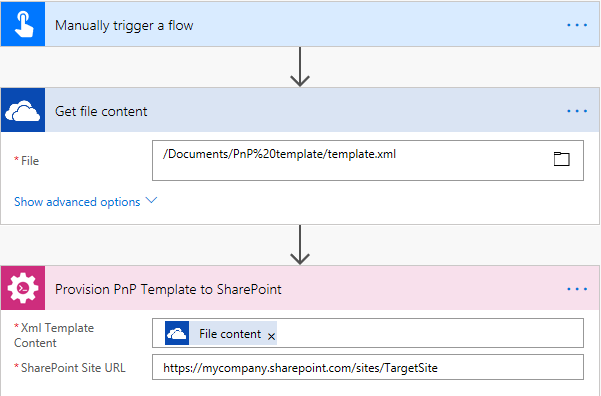
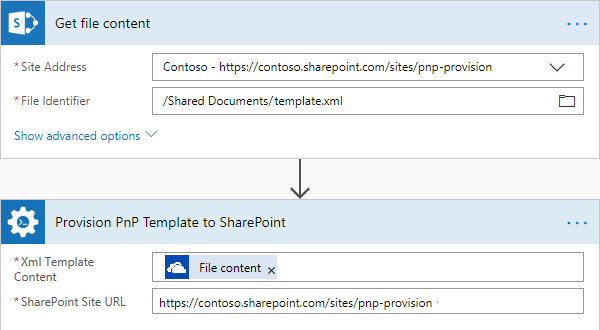
Final version of create list or library from PnP template article.

diff --git a/source/flow/how-tos/sharepoint/create-list-library-pnp.rst b/source/flow/how-tos/sharepoint/create-list-library-pnp.rst
@@ -1,11 +1,11 @@
 How to create SharePoint list or library using PnP provisioning template in Microsoft Flow, Azure Logic Apps or PowerApps
 =========================================================================================================================
 
-This article will show how to create a custom SharePoint list or library using PnP provisoning template. You can use this approach to create sites or lists of any complexity in SharePoint. For example, you may want to create an employees list with a set of predefined columns for your team. We will do it below. The same approach works for provision of SharePoint document library as well.
+This article will show how to create a custom SharePoint list or library using PnP provisioning template. You can use this approach to create lists or libraries of any complexity in SharePoint. For example, you may want to create an employees list with a set of predefined columns for your team. We will do it below.
 
-PnP template is an XML file that contains a description of SharePoint entities (lists, libraries, pages, etc.) that you want to create. You can create own XML template for your Modern SharePoint list or library. Then use the `Provision PnP template to SharePoint <../../actions/sharepoint-processing.html#provision-pnp-template-to-sharepoint>`_ action from `Plumsail Actions <https://plumsail.com/actions>`_ to apply PnP templates to your SharePoint sites using Microsoft Flow or Azure Logic Apps.
+`PnP template <https://docs.microsoft.com/en-us/sharepoint/dev/solution-guidance/pnp-provisioning-schema>`_ is an XML file that contains a description of SharePoint entities (lists, libraries, pages, etc.) that you want to create. You can create own XML template for your Modern SharePoint list or library. Then use the `Provision PnP template to SharePoint <../../actions/sharepoint-processing.html#provision-pnp-template-to-sharepoint>`_ action from `Plumsail Actions <https://plumsail.com/actions>`_ to apply PnP templates to your SharePoint sites using Microsoft Flow or Azure Logic Apps.
 
-If you are new to Plumsail Actions, follow `this getting started instruction <../../getting-started/sign-up>`_.
+If you are new to Plumsail Actions, follow `this getting started instruction <../../../getting-started/sign-up.html>`_.
 
 First of all, we need to create a PnP provisioning template for our list. Let us say we have the employees list:
 
@@ -17,6 +17,8 @@ There are two ways to create a PnP template:
 1. :ref:`write-template-manually` - It is useful for simple lists without custom views or content types.
 2. :ref:`create-template-from-existing-list` - It is useful for complex lists with content types, views, site columns.
 
+You will find the description of both approaches below. Pick the one that you like more.
+
 .. _write-template-manually:
 
 Write a PnP template manually and provision a simple list
@@ -24,7 +26,7 @@ Write a PnP template manually and provision a simple list
 
 This approach is useful for creation of simple lists or document libraries without custom content types, site columns, etc. Below you can see example of a template for simple employees list:
 
-.. code:: 
+.. code-block:: XML
 
   <?xml version="1.0"?>
   <pnp:Provisioning xmlns:pnp="http://schemas.dev.office.com/PnP/2018/07/ProvisioningSchema">
@@ -79,14 +81,14 @@ Let us review what you can change in the template.
 
 :code:`<pnp:ListInstance>` tag represents a list. You can change list title (:code:`Title`) and list URL (:code:`Url`). Also, if you want to create a document library, you need to change :code:`TemplateType` to :code:`101` instead of :code:`100`. 
 
-You can find all awailable template types in `the official Microsoft documentation <https://docs.microsoft.com/en-us/previous-versions/office/sharepoint-server/ms413878(v%3Doffice.15)>`_.
+You can find all the available template types in `the official Microsoft documentation <https://docs.microsoft.com/en-us/previous-versions/office/sharepoint-server/ms413878(v%3Doffice.15)>`_.
 
 <Field> tag
 ~~~~~~~~~~~~~~~
 
 :code:`<pnp:Field>` tag represents a column in your list. You can add new fields by adding new tags like this:
 
-.. code:: 
+.. code-block:: XML
 
   <pnp:Fields>
     <Field ID="{4512a091-1007-4cd9-900b-411f01f2b119}" DisplayName="Manager" Name="Manager" Type="Text"/>
@@ -95,15 +97,15 @@ You can find all awailable template types in `the official Microsoft documentati
 
 - :code:`DisplayName` is a display name of the field.
 - :code:`Name` is an internal name of the field.
-- :code:`Type` represents a type of the field. You can find all awailable types in `this article <https://docs.microsoft.com/en-us/previous-versions/office/sharepoint-server/ms428806(v%3Doffice.15)>`_.
-- :code:`ID` is unique ID of the field. You can put here unique GUID or fill it dynamcially in your Microsoft Flow. See the example below.
+- :code:`Type` represents a type of the field. You can find all the available types in `this article <https://docs.microsoft.com/en-us/previous-versions/office/sharepoint-server/ms428806(v%3Doffice.15)>`_.
+- :code:`ID` is a unique ID of the field. You can put here unique GUID or fill it dynamically in your Microsoft Flow. See the example below.
 
 <FieldRef> tag under <ViewFields>
 ~~~~~~~~~~~~~~~~~~~~~~~~~~~~~~~~~~~~~
 
 :code:`<FieldRef>` tag under :code:`<ViewFields>` represents a field in a list view. If you want to add your new field in the list view, create the :code:`<FieldRef>` tag for it:
 
-.. code:: 
+.. code-block:: XML
 
   <ViewFields>
     <FieldRef Name="Manager" />
@@ -118,34 +120,36 @@ Example of Microsoft Flow
 Copy and paste your template into `Provision PnP template to SharePoint <../../actions/sharepoint-processing.html#provision-pnp-template-to-sharepoint>`_ action in your Flow:
 
 .. image:: ../../../_static/img/flow/how-tos/create-simple-list-pnp-flow-example.png
-  :alt: Create simple list from PnP template Flow
+  :alt: Create a simple list from PnP template Flow
 
 You need to replace all values for Field IDs using Microsoft Flow expressions like on the screenshot above. It will ensure that your fields will always have unique IDs.
 
-This approach is useful, when you want to create simple SharePoint lists or document libraries. If you have a comples list with many views you may consider another option with creating your template from an existing list using PowerShell. For more information read below.
+This approach is useful when you want to create simple SharePoint lists or document libraries. If you have a complex list with many views you may consider another option with creating your template from an existing list using PowerShell. For more information read below.
 
 .. _create-template-from-existing-list:
 
 Get a PnP template from an existing list and provision a complex list
 ---------------------------------------------------------------------
 
-PnP PowerShell allows you to execute various command for manipulating SharePoint, including grabbing of a template from a SharePoint site.
+PnP PowerShell allows you to execute various commands for manipulating SharePoint, including grabbing of a template from a SharePoint site.
 
 First of all, you need to install PnP PowerShell. Follow `the installation instruction <https://docs.microsoft.com/en-us/powershell/sharepoint/sharepoint-pnp/sharepoint-pnp-cmdlets?view=sharepoint-ps#installation>`_. Then connect to your SharePoint site. Execute the command below and specify your own URL for the site where your Modern page is stored:
 
-.. code::
+.. code-block:: powershell
 
-  Connect-PnPOnline -Url https://mycompany.sharepoint.com/sites/mysite
+  Connect-PnPOnline -Url "https://contoso.sharepoint.com/sites/mysite"
 
-Unfortunately, there are no PnP PowerShell commands for getting a template from a signle list. You could execute this command:
+Unfortunately, there are no PnP PowerShell commands for getting a template from a single list. You could execute this command:
 
-.. code::
+.. code-block:: powershell
 
-  Get-PnPProvisioningTemplate -Out template.xml -Handlers Lists
+  Get-PnPProvisioningTemplate -Out "template.xml" -Handlers Lists
 
-But the command below creates a template for all lists and libraries on your site. If it is your case, you can use the code above. Otherwise, you need a workaround:
+But this command creates a template for all lists and libraries on your site. If it is your case, you can use the code above. Otherwise, you need a workaround.
 
-..code::
+The script below is the workaround. It will help you to get a template from a single list:
+
+.. code-block:: powershell
 
   $listName = "Employees";
   $outputTemplateFileName = "template.xml";
@@ -157,45 +161,20 @@ But the command below creates a template for all lists and libraries on your sit
 
 This scripts gets a template for a single list. Let's take a closer look:
 
-- In the first line we specify title of the list. You need to replace "Employees" by the name of your script.
-- In the second line we specify location of the output template. You can change "template.xml" to other path.
-- The rest of the code takes a template for all list of the sites. Then it removes all the lists except the one we need.
+- In the first line we specify title of the list. You need to replace "Employees" by the name of your list.
+- In the second line, we specify the location of the output template file. You can change "template.xml" to another path.
+- The rest of the code takes a template for all lists of the site. Then it removes all the lists except the one we need.
 
 Once you executed the script, you will have the template for your specific list or document library.
 
 .. note:: This script gets a template of a list without external references like content types, site columns, etc. If you need to include them into the template, you need to modify the PowerShell script or do it manually in the XML.
 
-However, in a real situation we need to save not all existing lists but a specific one. 
-Standard PnP commandlets do not allow you to grab a template for a single list. That is why you need a workaround. 
-Let's say you have a pnp template and deploy the template once new employee is hired. However, the source site gets a new list and you need to provide the list to all employees.
-Instead of taking a template from the whole site you can take a template, including only specific list.
+That is all. Now you can save the template file somewhere in your SharePoint and use this file as a template in the `Provision PnP template to SharePoint <../../actions/sharepoint-processing.html#provision-pnp-template-to-sharepoint>`_ actions:
 
-|listimg|
+.. image:: ../../../_static/img/flow/how-tos/provision-pnp-template-to-sp.png
+   :alt: Apply list PnP template
 
-The next PowerShell script helps us to reach the goal:
-
-
-
-
-
-If you open the resulting xml template you'll see that there is a description of only one list.Then you may apply the resulting xml using the Microsoft Flow action  `Provision PnP template to SharePoint`_ .
-
-|flow|
-
-Conclusion
-----------
-
-I've shown how to create a PnP provisioning template with a specific list or library and how to use this resulting template with Plumsail Actions.
-If you haven’t used it yet, `registering an account`_ would be the first step. It is quite easy to get started.
+If you haven’t used Plumsail Actions yet, `registering an account <../../../getting-started/sign-up.html>`_ would be the first step. It is quite easy to get started.
 
 .. hint::
-  You may also be interested in `this article <https://plumsail.com/docs/actions/v1.x/flow/how-tos/sharepoint/get-template-using-power-shell.html>`_ explaining how to get a PnP provisioning template using PowerShell and then apply it in Microsoft Flow.
-
-
-.. _Plumsail SharePoint connector: https://plumsail.com/docs/actions/v1.x/flow/actions/sharepoint-processing.html
-.. _article: ../../how-tos/sharepoint/get-template-using-power-shell.html
-.. _options: https://docs.microsoft.com/en-us/powershell/module/sharepoint-pnp/get-pnpprovisioningtemplate?view=sharepoint-ps
-.. _registering an account: ../../../getting-started/sign-up.html
-
-.. |flow| image:: ../../../_static/img/flow/sharepoint/provision-pnp-template-to-sp.png
-.. |listimg| image:: ../../../_static/img/flow/sharepoint/new-tasks-list.png
+  You may also be interested in `this article <create-site-pnp.html>`_ explaining how to provision site using PnP template.

diff --git a/source/flow/how-tos/sharepoint/create-modern-page-pnp-template.rst b/source/flow/how-tos/sharepoint/create-modern-page-pnp-template.rst
@@ -3,9 +3,9 @@ How to create a SharePoint Modern page using PnP provision template in Microsoft
 
 This article describes how to create a SharePoint Modern page using a PnP provisioning template. It may be quite useful when you want to automatically post some news to your Modern Communication site or migrate regular pages from one site to another.
 
-PnP template is an XML file that contains a description of SharePoint entities (lists, libraries, pages, etc.) that have to be created. You can create own XML template for your Modern SharePoint page. Then use the `Provision PnP template to SharePoint <../../actions/sharepoint-processing.html#provision-pnp-template-to-sharepoint>`_ action from `Plumsail Actions <https://plumsail.com/actions/>`_ to apply PnP templates to your SharePoint sites using Microsoft Flow or Azure Logic Apps.
+`PnP template <https://docs.microsoft.com/en-us/sharepoint/dev/solution-guidance/pnp-provisioning-schema>`_ is an XML file that contains a description of SharePoint entities (lists, libraries, pages, etc.) that have to be created. You can create own XML template for your Modern SharePoint page. Then use the `Provision PnP template to SharePoint <../../actions/sharepoint-processing.html#provision-pnp-template-to-sharepoint>`_ action from `Plumsail Actions <https://plumsail.com/actions/>`_ to apply PnP templates to your SharePoint sites using Microsoft Flow or Azure Logic Apps.
 
-If you are new to Plumsail Actions, follow this `getting started instruction <https://plumsail.com/docs/actions/v1.x/getting-started/sign-up.html>`_.
+If you are new to Plumsail Actions, follow this `getting started instruction <../../../getting-started/sign-up.html>`_.
 
 There are two ways to create a PnP template:
 
@@ -81,19 +81,19 @@ Get a PnP template from an existing page and provision a page
 
 In this section, I will describe how to provision more complex Modern page. It will consist of custom heading, text, picture, custom form web part. You saw the screenshot of the page like this at the beginning of this article.
 
-PnP PowerShell allows you to execute various command for manipulating SharePoint, including grabbing of a template from a SharePoint site or from a Modern page.
+PnP PowerShell allows you to execute various commands for manipulating SharePoint, including grabbing of a template from a SharePoint site or from a Modern page.
 
 First of all, you need to install PnP PowerShell. Follow `the installation instruction <https://docs.microsoft.com/en-us/powershell/sharepoint/sharepoint-pnp/sharepoint-pnp-cmdlets?view=sharepoint-ps#installation>`_. Then connect to your SharePoint site. Execute the command below and specify your own URL for the site where your Modern page is stored:
 
-.. code::
+.. code-block:: powershell
 
-  Connect-PnPOnline -Url https://mycompany.sharepoint.com/sites/mysite
+  Connect-PnPOnline -Url "https://contoso.sharepoint.com/sites/mysite"
 
 Then execute the command below:
 
-.. code::
+.. code-block:: powershell
 
-  Export-PnPClientSidePage -Identity "modern-page.aspx" -Out page-template.xml
+  Export-PnPClientSidePage -Identity "modern-page.aspx" -Out "page-template.xml"
 
 Replace the "modern-page.aspx" to the file name of your modern page in the command. The template will be stored to "page-template.xml" file. You can specify another path for the XML file if you want.
 
@@ -105,9 +105,14 @@ For some reasons, PnP PowerShell forgets to add "ID" attribute to the XML. That 
 
 If you want to create your modern page as a news post change :code:`PromoteAsNewsArticle="false"` to :code:`PromoteAsNewsArticle="true"` as well.
 
+.. note:: The XML PnP template contains the declaration of your page only. If there are any related entities, like pictures, you need to create them before applying the template.
+
 That is all. Now you can save the template file somewhere in your SharePoint and use this file as a template in the `Provision PnP template to SharePoint <../../actions/sharepoint-processing.html#provision-pnp-template-to-sharepoint>`_ actions:
 
 .. image:: ../../../_static/img/flow/how-tos/apply-complex-modern-page-pnp-template.png
    :alt: Apply complex Modern Page PnP template
 
-.. note:: The XML PnP template contains the declaration of your page only. If there are any related entities, like pictures, you need to create them before applying the template.
+If you haven’t used Plumsail Actions yet, `registering an account <../../../getting-started/sign-up.html>`_ would be the first step. It is quite easy to get started.
+
+.. hint::
+  You may also be interested in `this article <create-list-library-pnp.html>`_ explaining how to provision a list or a document library using PnP template.

diff --git a/source/flow/how-tos/sharepoint/index-permissions.rst b/source/flow/how-tos/sharepoint/index-permissions.rst
@@ -5,8 +5,8 @@ Permissions management
     :name: howtotoc
     :maxdepth: 1
    
-   Set item level permissions (break role inheritance and assign permissions) <set-item-level-permissions>
-   Create Classic site by custom template and grant permissions <create-site-by-custom-template-and-grant-permissions>
-   Create security group and add users <create-sp-group-add-users>
-   Share document with external users <how-to-share-sharepoint-documents>
-   Share site with external users <how-to-share-sharepoint-sites>
+    Set item level permissions (break role inheritance and assign permissions) <set-item-level-permissions>
+    Create Classic site by custom template and grant permissions <create-site-by-custom-template-and-grant-permissions>
+    Create security group and add users <create-sp-group-add-users>
+    Share document with external users <how-to-share-sharepoint-documents>
+    Share site with external users <how-to-share-sharepoint-sites>

diff --git a/source/flow/how-tos/sharepoint/index-provision.rst b/source/flow/how-tos/sharepoint/index-provision.rst
@@ -4,8 +4,8 @@ Provisioning
 .. toctree::    
     :name: howtotoc
     :maxdepth: 1
-
-   Create Modern team or communication site<create-modern-sharepoint-site>
-   Create Modern page using PnP template <create-modern-page-pnp-template>
-   Create list or library using PnP template <create-list-library-pnp>
-   Create Classic site by custom template and grant permissions <create-site-by-custom-template-and-grant-permissions>
+    
+    Create Modern team or communication site<create-modern-sharepoint-site>
+    Create Modern page using PnP template <create-modern-page-pnp-template>
+    Create list or library using PnP template <create-list-library-pnp>
+    Create Classic site by custom template and grant permissions <create-site-by-custom-template-and-grant-permissions>

diff --git a/source/flow/how-tos/sharepoint/index-documents.rst b/source/flow/how-tos/sharepoint/index-documents.rst
@@ -5,7 +5,7 @@ Documents management
     :name: howtotoc
     :maxdepth: 1
 
-   Copy document set to another library <copy-document-set-to-another-library>
-   Copy or move documents cross-site <copy-or-move-documents-cross-site>
-   Create, copy, move and remove folders cross-site <create-copy-move-remove-folders-cross-site>
-   Check-in multiple documents <how-to-check-in-multiple-documents>
+    Copy document set to another library <copy-document-set-to-another-library>
+    Copy or move documents cross-site <copy-or-move-documents-cross-site>
+    Create, copy, move and remove folders cross-site <create-copy-move-remove-folders-cross-site>
+    Check-in multiple documents <how-to-check-in-multiple-documents>

diff --git a/source/flow/how-tos/sharepoint/index-listitems.rst b/source/flow/how-tos/sharepoint/index-listitems.rst
@@ -5,5 +5,5 @@ List items management
     :name: howtotoc
     :maxdepth: 1
    
-   Get items from lists and libraries using CAML query<get-items-using-CAML>   
-   Copy or move list items with attachments cross-site <move-sharepoint-list-items-with-attachments-cross-site>
+    Get items from lists and libraries using CAML query<get-items-using-CAML>   
+    Copy or move list items with attachments cross-site <move-sharepoint-list-items-with-attachments-cross-site>
